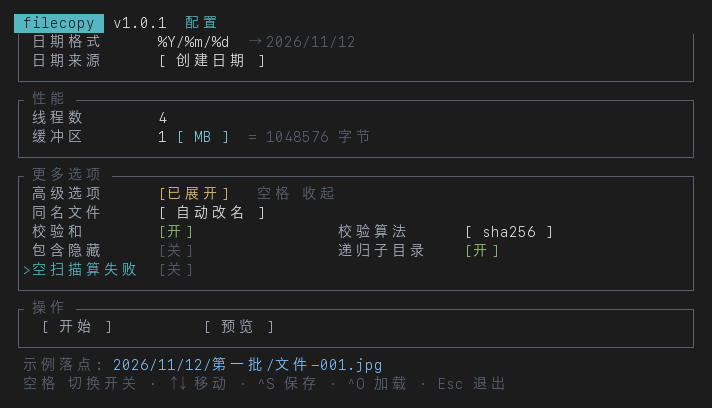
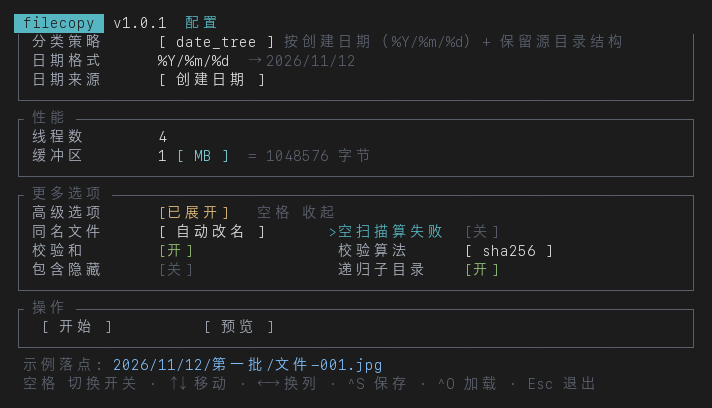
refactor(tui): 更多选项排成三行两列
原来 6 个开关里只有 4 个配了对，同名文件和空扫描算失败各占一整行；
而校验和关掉时校验算法会隐藏，右列就只剩递归子目录一项。

- FIELD_PAIRS 改成三对：同名文件|空扫描算失败、校验和|校验算法、包含隐藏|递归子目录
- Field::ALL 顺序跟着调，↓ 严格按屏幕自上而下
- 收起时的摘要改成按表单顺序排（同名:自动改名 · 校验 sha256）
- 导航测试补上第一行的左右键与「往上没有右列」的回归

diff --git a/src/tui/mod.rs b/src/tui/mod.rs
@@ -84,11 +84,11 @@ impl Field {
         Field::Advanced,
         // 高级选项里的开关（只在展开后可见，位置就在「高级选项」下面）
         Field::Conflict,
+        Field::FailEmpty,
         Field::Verify,
         Field::VerifyAlgo,
         Field::IncludeHidden,
         Field::Recursive,
-        Field::FailEmpty,
         // 操作
         Field::Start,
         Field::Preview,
@@ -237,7 +237,8 @@ fn conflict_idx_of(cfg: &Config) -> usize {
 }
 
 /// 并排显示的字段对（左, 右）。渲染和左右键换列都用这份定义，避免两处各写一遍。
-pub const FIELD_PAIRS: [(Field, Field); 2] = [
+pub const FIELD_PAIRS: [(Field, Field); 3] = [
+    (Field::Conflict, Field::FailEmpty),
     (Field::Verify, Field::VerifyAlgo),
     (Field::IncludeHidden, Field::Recursive),
 ];
@@ -2323,12 +2324,27 @@ mod tests {
         app.field = Field::VerifyAlgo;
         handle_key(&mut app, key(KeyCode::Down));
         assert_eq!(app.field, Field::Recursive);
+        // 最后一行的右列往下，进「操作」那一行的右列（预览）
         handle_key(&mut app, key(KeyCode::Down));
-        assert_eq!(app.field, Field::FailEmpty);
-        // 右列往上同理（从「空扫描算失败」这个单栏行回到右列）
+        assert_eq!(app.field, Field::Preview);
+        // 右列往上同理
         app.field = Field::Recursive;
         handle_key(&mut app, key(KeyCode::Up));
         assert_eq!(app.field, Field::VerifyAlgo);
+        // 第一行：同名文件 | 空扫描算失败，↓ 落在左列
+        app.field = Field::Conflict;
+        handle_key(&mut app, key(KeyCode::Down));
+        assert_eq!(app.field, Field::Verify);
+        // 这一行的两列之间用左右键走
+        app.field = Field::Conflict;
+        handle_key(&mut app, key(KeyCode::Right));
+        assert_eq!(app.field, Field::FailEmpty);
+        handle_key(&mut app, key(KeyCode::Left));
+        assert_eq!(app.field, Field::Conflict);
+        // 「空扫描算失败」往上没有右列了，回到「高级选项」开关本身
+        app.field = Field::FailEmpty;
+        handle_key(&mut app, key(KeyCode::Up));
+        assert_eq!(app.field, Field::Advanced);
         // 缓冲区（数字 + 单位同一行）往下就是「高级选项」
         app.field = Field::BufferSize;
         handle_key(&mut app, key(KeyCode::Down));

diff --git a/src/tui/render.rs b/src/tui/render.rs
@@ -249,7 +249,7 @@ impl FormLayout {
         // 展开的内容紧跟在「高级选项」这一行下面，和它同属「更多选项」这一组
         if form.advanced_open {
             let column = (width.saturating_sub(4) as usize / 2).clamp(24, 34);
-            // 按屏幕顺序排；有配对的并排一行，没有配对的（空扫描算失败）单独一行
+            // 按屏幕顺序排；六个开关正好排成三行两列，右列不留空（见 FIELD_PAIRS）
             let mut placed = Vec::new();
             for field in super::Field::ALL {
                 if !field.is_advanced_group() || placed.contains(&field) {
@@ -733,24 +733,25 @@ fn pair_line(left: Line<'static>, right: Line<'static>, column: usize) -> Line<'
 /// 收起「高级选项」时，用它生成一行摘要，说明哪些高级设置在生效。
 fn advanced_summary(form: &FormData) -> String {
     // 分类策略和日期格式已经常驻在表单里，这里只摘要真正被收起的那几项
+    // 顺序跟表单里的排布一致（第一行 → 最后一行），扫一眼就能对上那一行
     let mut parts = Vec::new();
+    let policy = form.conflict_idx.min(super::CONFLICT_POLICIES.len() - 1);
+    if policy > 0 {
+        parts.push(format!("同名:{}", super::CONFLICT_POLICIES[policy]));
+    }
+    if form.fail_empty {
+        parts.push("空扫描失败".to_string());
+    }
     if form.verify {
         let algo =
             super::VERIFY_ALGORITHMS[form.verify_algo_idx.min(super::VERIFY_ALGORITHMS.len() - 1)];
         parts.push(format!("校验 {algo}"));
-    }
-    let policy = form.conflict_idx.min(super::CONFLICT_POLICIES.len() - 1);
-    if policy > 0 {
-        parts.push(format!("同名:{}", super::CONFLICT_POLICIES[policy]));
     }
     if form.include_hidden {
         parts.push("含隐藏".to_string());
     }
     if !form.recursive {
         parts.push("不递归".to_string());
-    }
-    if form.fail_empty {
-        parts.push("空扫描失败".to_string());
     }
     parts.join(" · ")
 }

diff --git a/README.md b/README.md
@@ -76,13 +76,14 @@ cargo build --release
 
 校验、冲突处理、隐藏文件、递归这些开关收在「更多选项」里，按 `空格` 展开，再按一次收起；
 展开的内容就出现在这一行**下面**、和它同一组。收起时该行会摘要显示仍然生效的开关
-（例如 `校验 sha256 · 同名:自动改名`），不会有「藏起来的选项偷偷生效」的情况。
+（例如 `同名:自动改名 · 校验 sha256`，顺序跟表单里那三行一致），不会有「藏起来的选项偷偷生效」的情况。
 
 ![填好的表单](docs/screens/form-filled.png)
 
 ![展开高级选项](docs/screens/form-expanded.png)
 
-展开后开关两列排布，`←` `→` 在左右两列之间移动，`空格` 改值。
+展开后六个开关正好排成三行两列（同名文件｜空扫描算失败、校验和｜校验算法、包含隐藏｜递归子目录），
+`←` `→` 在左右两列之间移动，`空格` 改值；单看某一行时 `↓` 会留在原来那一列，不会跳回左列。
 互相依赖的选项会自动出现或消失：日期格式与日期来源只在按日期分类的策略下显示（而且始终显示，
 不用展开），校验算法只在打开校验时显示。
 
